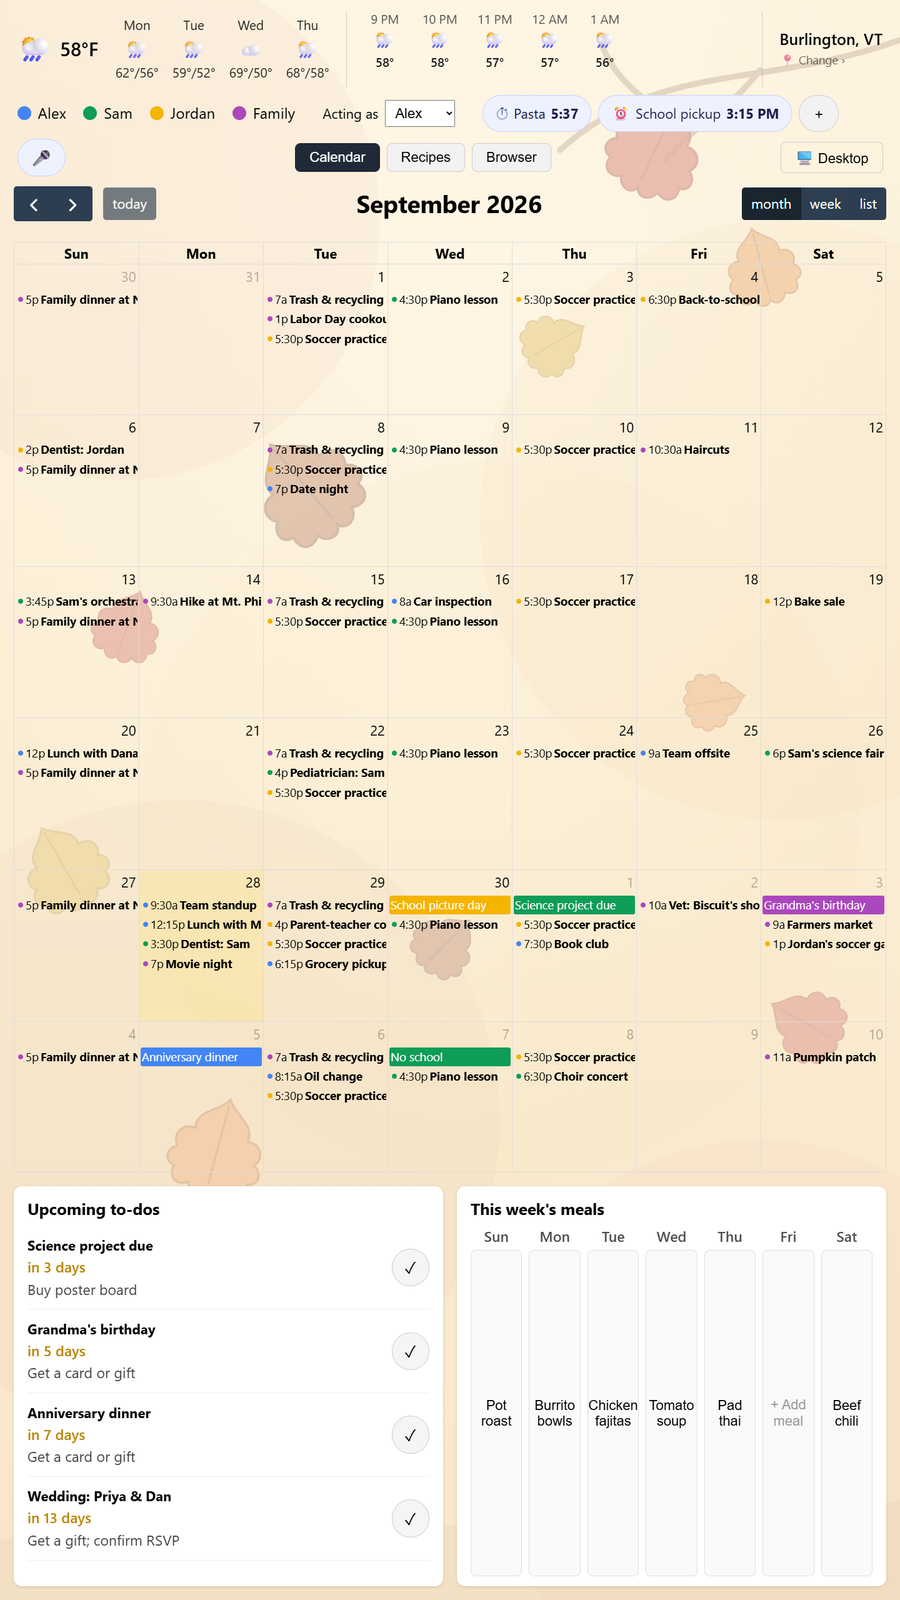
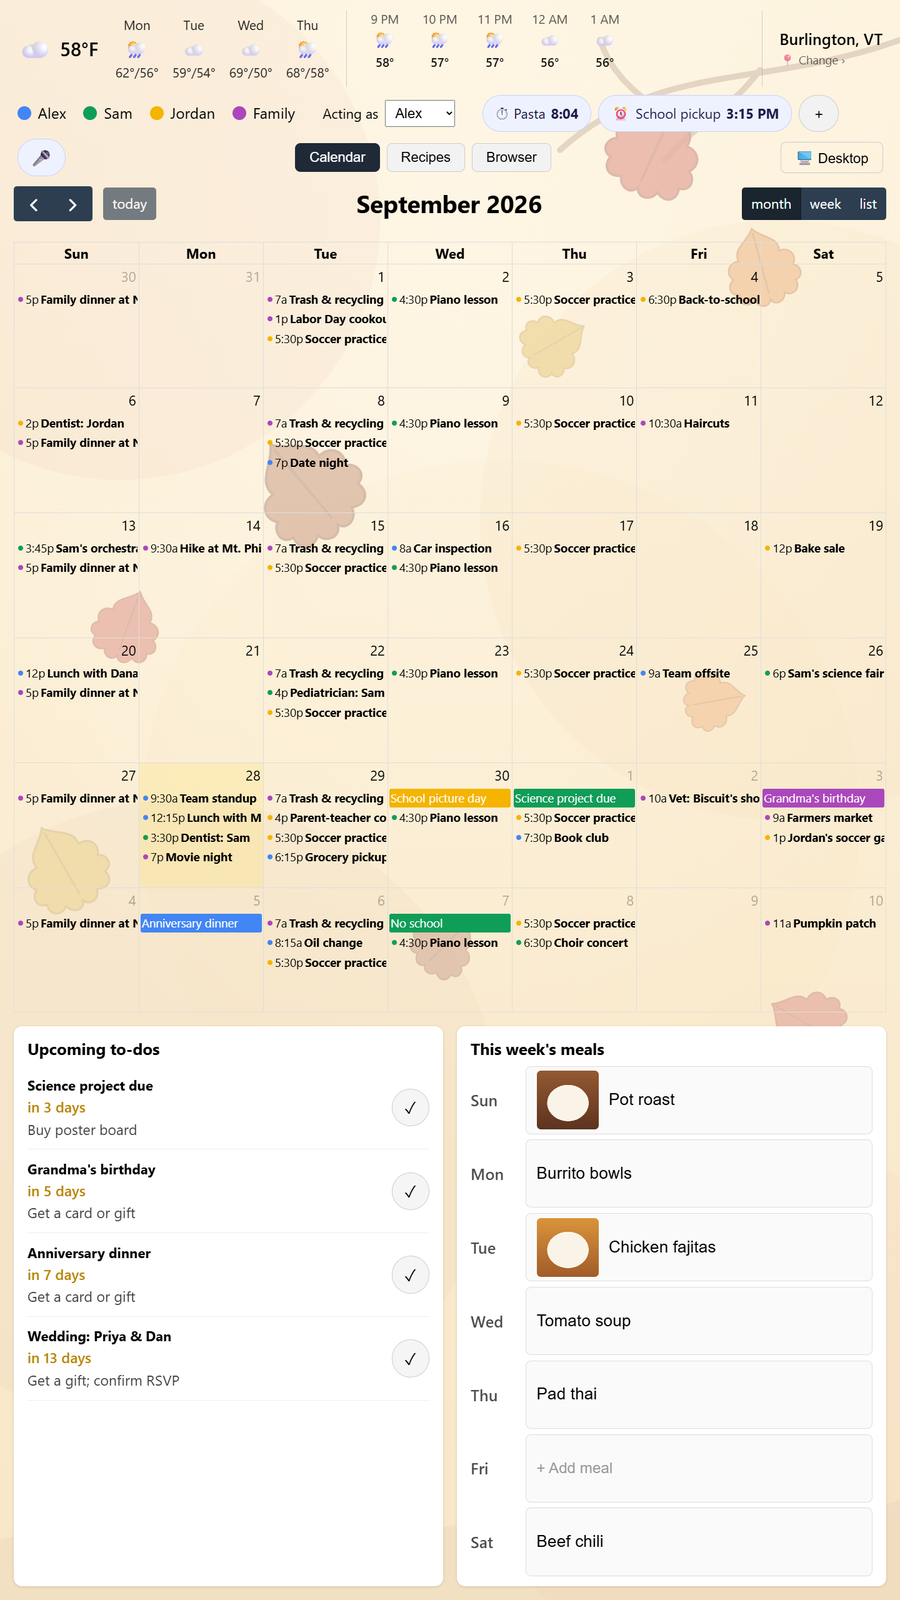
Give the bottom cards more room, and list meals a day per row
The strip under the calendar grows from a quarter of the screen to about a third,
and this week's meals become seven full-width rows (day, then meal) instead of
seven narrow columns that cut names off. README screenshots refreshed.

diff --git a/frontend/src/lib/MealPlanner.svelte b/frontend/src/lib/MealPlanner.svelte
@@ -106,12 +106,15 @@
     flex-shrink: 0;
   }
 
+  /* One row a day, top to bottom: the day, then the meal across the rest of the row.
+     (Seven narrow columns cut names off: "Weeknight chicken fajitas".) */
   .days {
     list-style: none;
     margin: 0;
     padding: 0;
     display: flex;
-    gap: 0.5rem;
+    flex-direction: column;
+    gap: 0.4rem;
     flex: 1;
     min-height: 0;
   }
@@ -119,50 +122,57 @@
   .days li {
     flex: 1;
     display: flex;
-    flex-direction: column;
-    align-items: center;
-    gap: 0.3rem;
+    align-items: stretch;
+    gap: 0.75rem;
     min-width: 0;
+    min-height: 0;
   }
 
   .day-label {
-    font-size: 1.05rem;
+    flex: 0 0 3.25rem;
+    align-self: center;
+    font-size: 1.15rem;
     font-weight: 600;
     opacity: 0.7;
   }
 
   .meal {
     flex: 1;
-    width: 100%;
+    min-width: 0;
     display: flex;
-    flex-direction: column;
     align-items: center;
-    justify-content: center;
-    gap: 0.3rem;
+    justify-content: flex-start;
+    gap: 0.75rem;
     border: 1px solid #ddd;
     border-radius: 0.4rem;
     background: #fafafa;
     cursor: pointer;
-    padding: 0.3rem;
+    padding: 0.3rem 0.75rem;
     overflow: hidden;
+    text-align: left;
   }
 
   .meal img {
-    width: 100%;
-    height: 8rem;
+    flex: 0 0 auto;
+    width: 4.5rem;
+    height: 100%;
     object-fit: cover;
     border-radius: 0.3rem;
   }
 
   .meal-title {
-    font-size: 1rem;
-    text-align: center;
-    line-height: 1.15;
+    font-size: 1.2rem;
+    line-height: 1.2;
+    overflow: hidden;
+    display: -webkit-box;
+    -webkit-line-clamp: 2;
+    line-clamp: 2;
+    -webkit-box-orient: vertical;
   }
 
   .meal.empty {
     color: #999;
-    font-size: 1rem;
+    font-size: 1.1rem;
   }
 
   .error {

diff --git a/frontend/src/App.svelte b/frontend/src/App.svelte
@@ -305,7 +305,7 @@
   .below-calendar {
     display: flex;
     gap: 1rem;
-    flex: 0 0 25vh; /* bottom quarter of the screen */
+    flex: 0 0 35vh; /* the bottom third or so: room for a week of meals, one a row */
   }
 
   .below-calendar > :global(*) {
